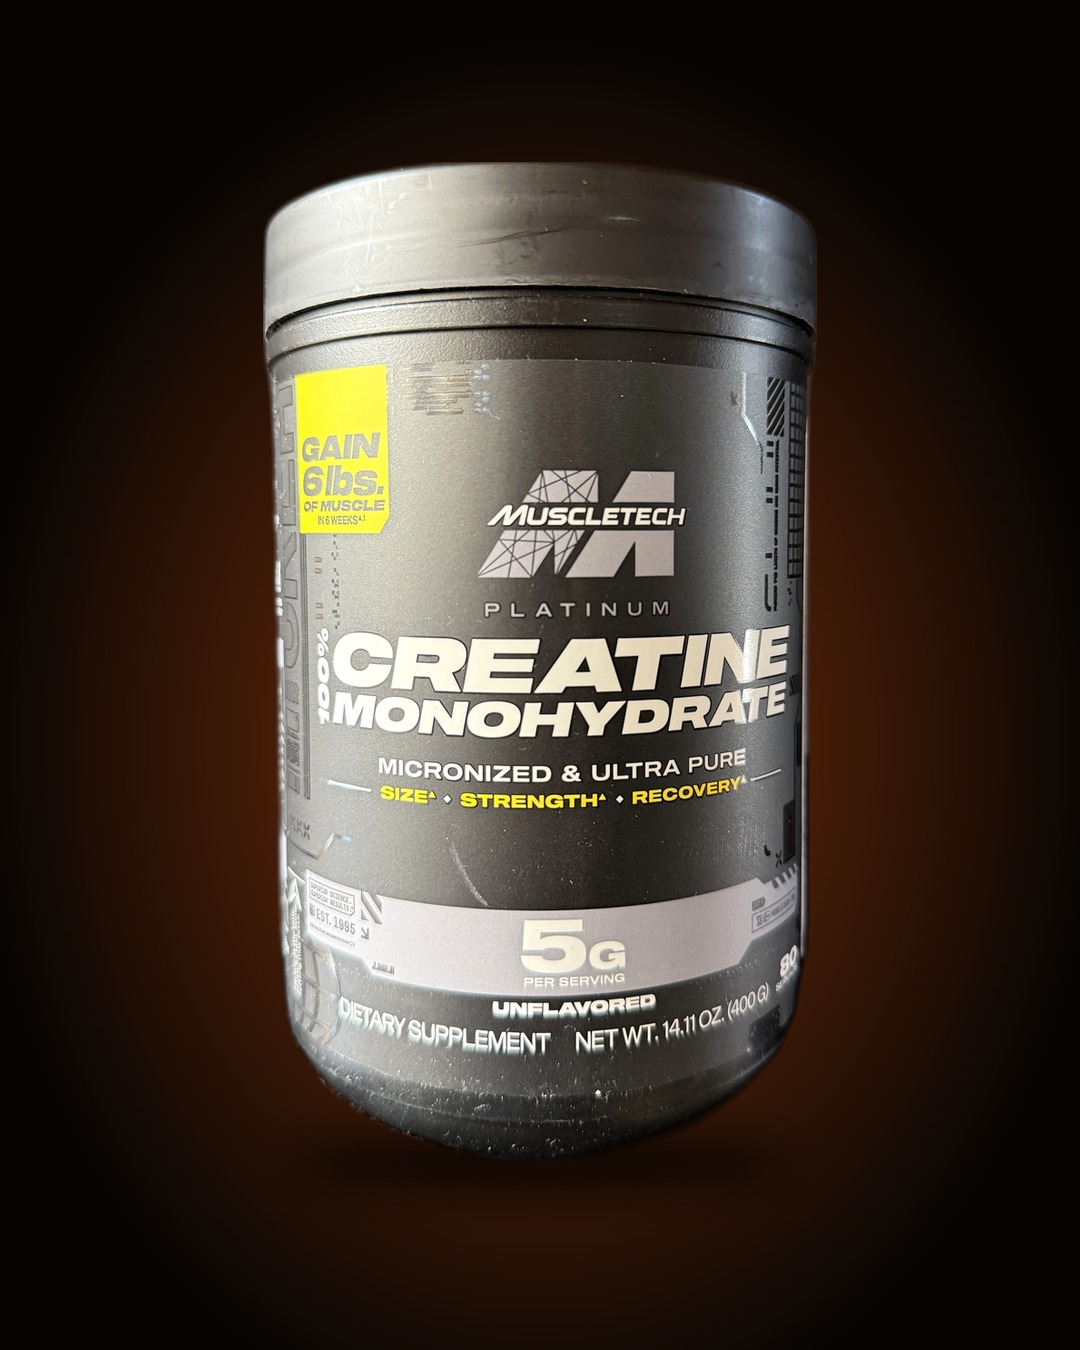
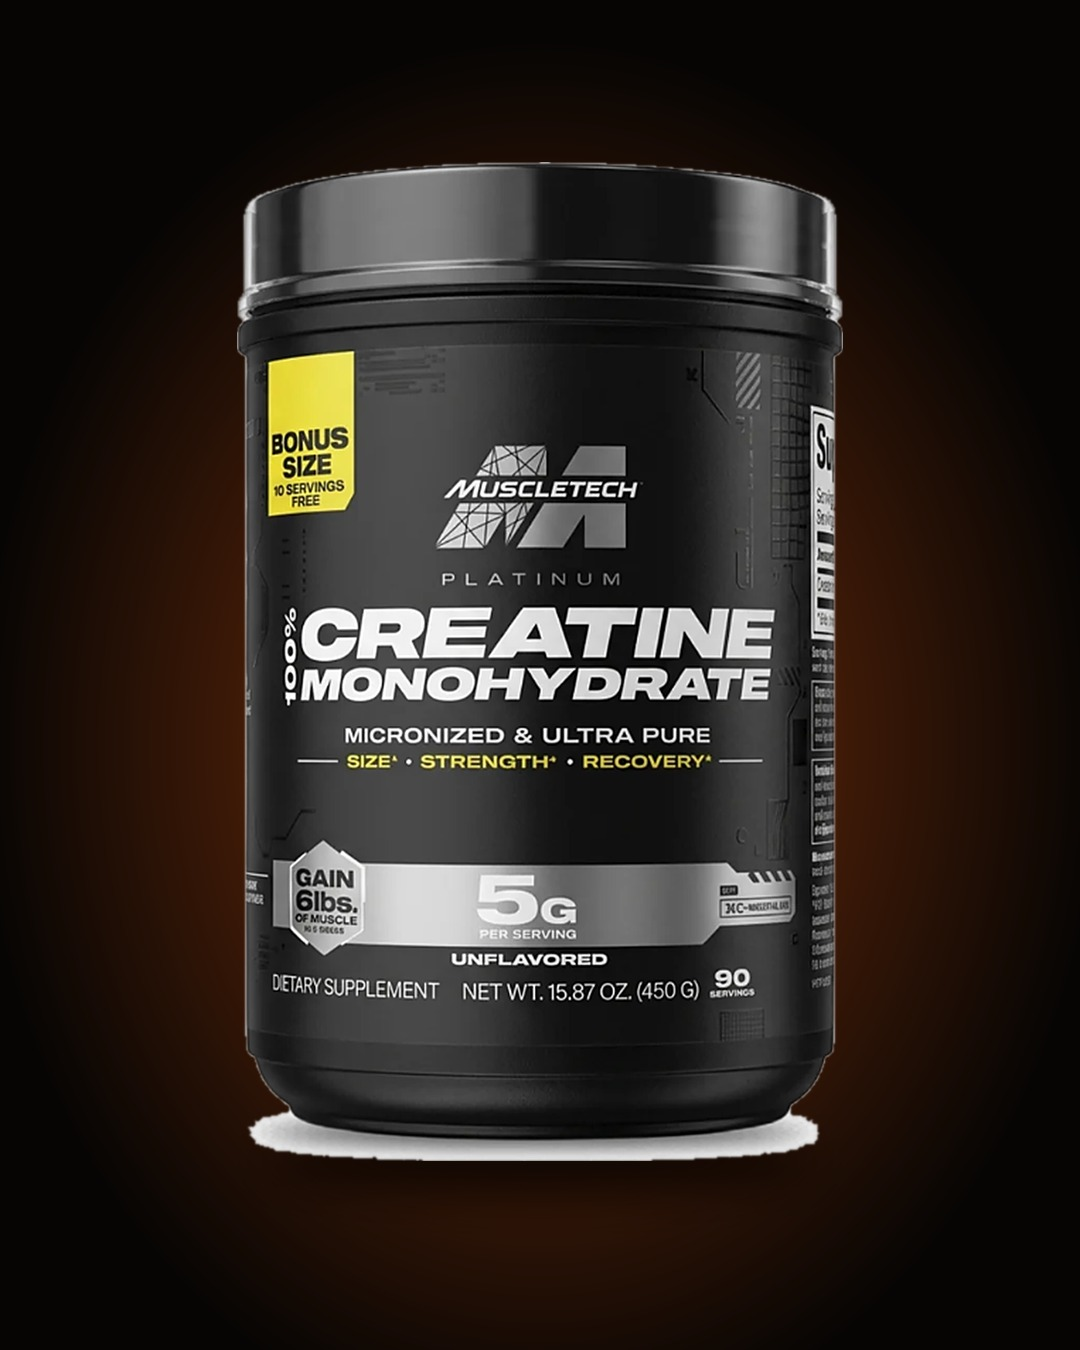
Catálogo, serie de creatina y vitrina con imágenes oficiales
Claude-Session: https://claude.ai/code/session_01L8gB8Vcucavm81YHdPaFLQ

diff --git a/CLAUDE.md b/CLAUDE.md
@@ -34,7 +34,7 @@ Productos que pueden llegar (Dymatize ISO 100, Nitro Tech, Finaflex 1 kg, Ostrov
 - Nunca inventar precios, stock, descuentos, testimonios, resultados ni escasez ("quedan pocas", "últimas unidades"). Urgencia solo si es real (fecha de una promoción que el dueño definió, llegada de stock real).
 - Nada de promesas de cambios físicos ni curas. Lipo 6: presentarlo como termogénico con cafeína para energía al entrenar, nunca "baja X kilos"; incluir siempre la nota "Contiene cafeína (222 mg por cápsula). No apto para menores ni embarazadas."
 - Afirmaciones de suplementos solo las bien respaldadas (creatina 3–5 g/día, cualquier hora, todos los días, fase de carga opcional, retención de agua intramuscular, segura en personas sanas a dosis recomendadas). Ante enfermedad o medicamentos: "consulta a tu médico".
-- Usar solo imágenes reales del producto que el dueño tiene en stock: sus fotos o las imágenes oficiales de la marca que él aprobó (kit/build/p_*.png). Whey USN y MuscleTech uva usan la imagen oficial; el resto usa la foto del dueño porque la imagen oficial muestra otra versión del envase (USN Pure Creatine 410 g, MuscleTech 450 g, USN Wellness, Lipo 6 liqui-caps). No inventar envases ni modificar etiquetas. Fotos 4:5 listas en fotos/.
+- Imágenes de producto: las oficiales de la marca que aprobó el dueño (kit/build/p_*.png; sus fotos originales quedan como p_*_real.png). Los textos siempre describen el producto que él vende (gramos y porciones de la tabla del catálogo), aunque la imagen oficial muestre otra versión del envase. No inventar envases ni modificar etiquetas. Fotos 4:5 listas en fotos/; catálogo en feed/catalogo/, serie de creatina en historias/serie_creatina/.
 - Marcar `isAiGenerated: false` (son fotos reales con diseño gráfico).
 
 ## Identidad visual
